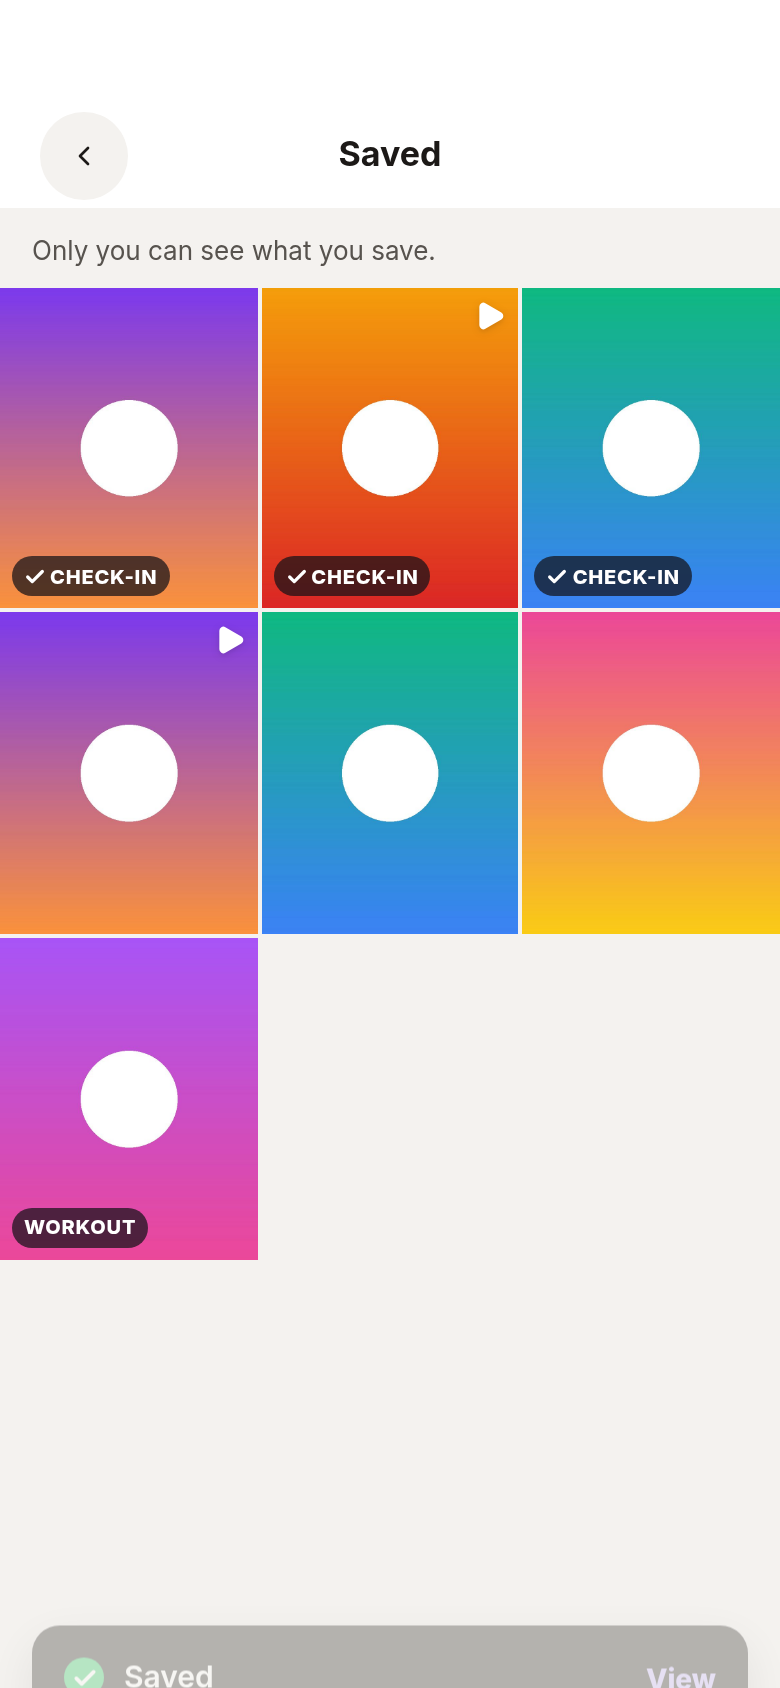
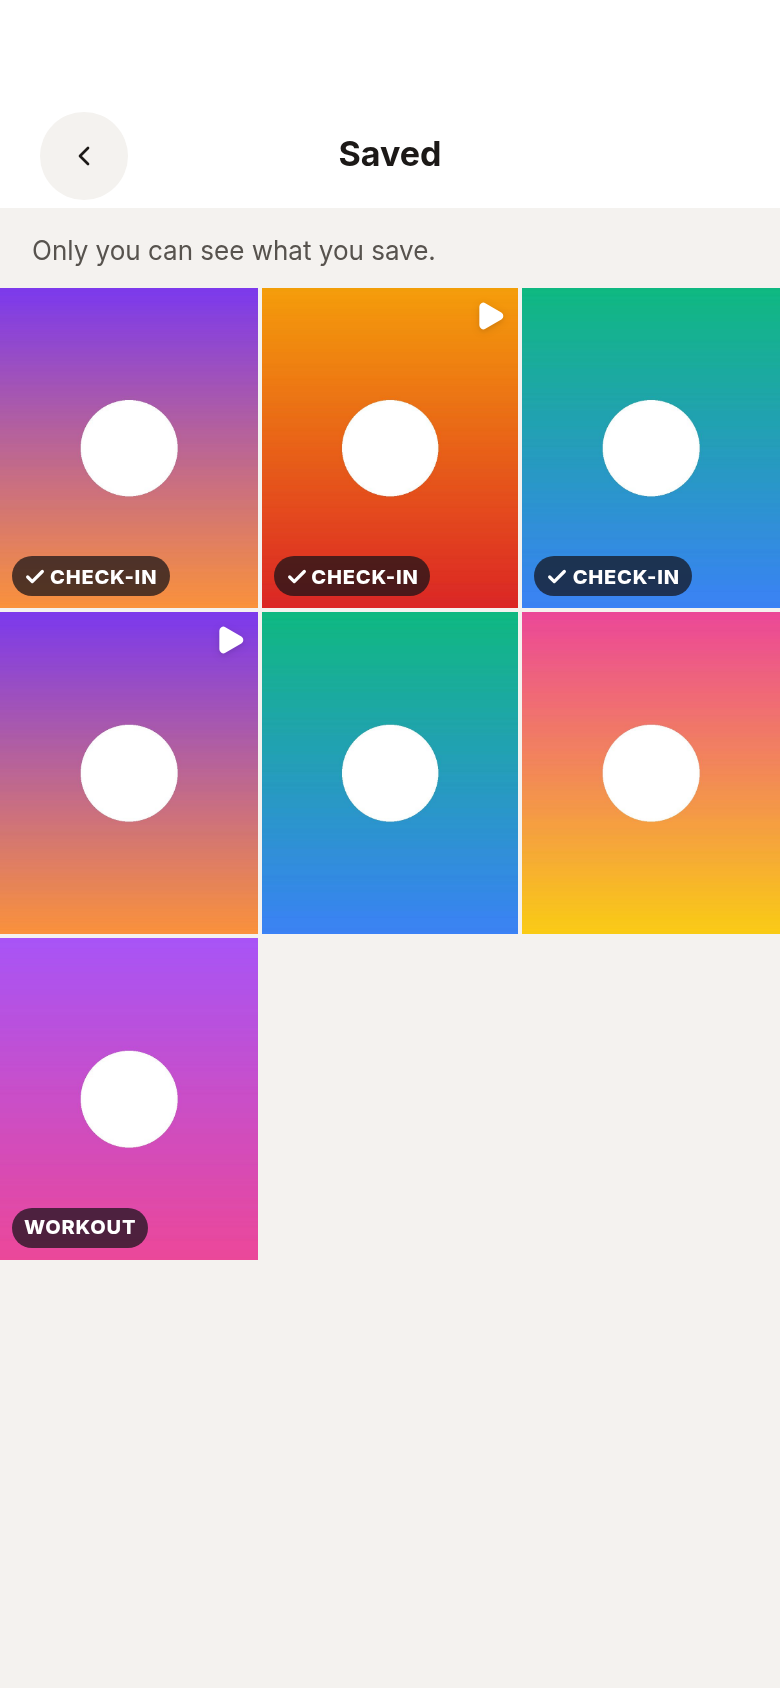
Dismiss the Saved toast right away when opening Saved

Changed region(s): [[0.0308, 0.955, 0.9846, 1.0]]

diff --git a/src/components/redesign/use-feed-save.ts b/src/components/redesign/use-feed-save.ts
@@ -4,7 +4,9 @@ import { useNavigate } from "@tanstack/react-router";
 import { useServerFn } from "@tanstack/react-start";
 import { toggleSocialPostSave } from "@/lib/posts.functions";
 import { getMySavedCheckInIds, toggleCheckInSave } from "@/lib/saved.functions";
-import { newToast } from "./new-toast";
+import { dismissToastNow, newToast } from "./new-toast";
+
+export const SAVED_TOAST_ID = "feed-saved";
 
 export const SAVED_CHECKIN_IDS_KEY = ["saved-checkin-ids"] as const;
 
@@ -25,7 +27,7 @@ export function useFeedSave(kind: "post" | "checkin", id: string, initial?: bool
       if (kind === "checkin") qc.setQueryData<string[]>(SAVED_CHECKIN_IDS_KEY, (old = []) => (next ? [id, ...old.filter((x) => x !== id)] : old.filter((x) => x !== id)));
       void qc.invalidateQueries({ queryKey: ["saved-posts"] });
       if (kind === "post") void qc.invalidateQueries({ queryKey: ["social-post", id] });
-      if (next) newToast("Saved", { success: true, action: { label: "View", onClick: () => void navigate({ to: "/saved" }) } });
+      if (next) newToast("Saved", { id: SAVED_TOAST_ID, success: true, action: { label: "View", onClick: () => { dismissToastNow(SAVED_TOAST_ID); void navigate({ to: "/saved" }); } } });
     } catch {
       setOverride(!next);
       newToast("Couldn't save. Try again.");

diff --git a/src/components/redesign/new-toast.tsx b/src/components/redesign/new-toast.tsx
@@ -29,6 +29,7 @@ export function newToast(message: string, opts: NewToastOpts = {}) {
     (id) => (
       <div
         role="status"
+        data-new-toast={String(id)}
         onClick={() => toast.dismiss(id)}
         className="flex w-full cursor-pointer items-center gap-2.5 rounded-[14px] px-4 py-[14px]"
         style={{ background: "#1C1917", boxShadow: "0 8px 24px rgba(20,18,24,0.25)", fontFamily: "Inter, system-ui, sans-serif" }}
@@ -58,6 +59,15 @@ export function newToast(message: string, opts: NewToastOpts = {}) {
       style: { background: "transparent", border: "none", boxShadow: "none", padding: 0 },
     },
   );
+}
+
+/** Dismiss without the exit fade, e.g. before navigating away from the toast's action. */
+export function dismissToastNow(id: string) {
+  if (typeof document !== "undefined") {
+    const li = document.querySelector(`[data-new-toast="${id}"]`)?.closest("[data-sonner-toast]");
+    if (li instanceof HTMLElement) li.style.display = "none";
+  }
+  toast.dismiss(id);
 }
 
 /** Drop-in for sonner's `toast` in new-version screens: success gets the green check. */

diff --git a/src/components/redesign/NewSaved.tsx b/src/components/redesign/NewSaved.tsx
@@ -1,3 +1,4 @@
+import { useEffect } from 'react';
 import { useInfiniteQuery } from '@tanstack/react-query';
 import { useNavigate, useRouter } from '@tanstack/react-router';
 import { Bookmark, Check, ChevronLeft, Layers, Play } from 'lucide-react';
@@ -6,6 +7,8 @@ import { getSavedPosts } from '@/lib/saved.functions';
 import type { SavedTile } from '@/lib/saved-posts';
 import { useHideBottomTabs } from '@/hooks/use-hide-bottom-tabs';
 import { useOpenAtTop } from '@/lib/use-open-at-top';
+import { dismissToastNow } from './new-toast';
+import { SAVED_TOAST_ID } from './use-feed-save';
 
 export const savedPostsKey = ['saved-posts'] as const;
 
@@ -26,6 +29,7 @@ export function PostGridTile({ tile }: { tile: SavedTile }) {
 
 export function NewSaved() {
   useHideBottomTabs(true, false);
+  useEffect(() => dismissToastNow(SAVED_TOAST_ID), []);
   const scroll = useOpenAtTop();
   const router = useRouter();
   const navigate = useNavigate();
